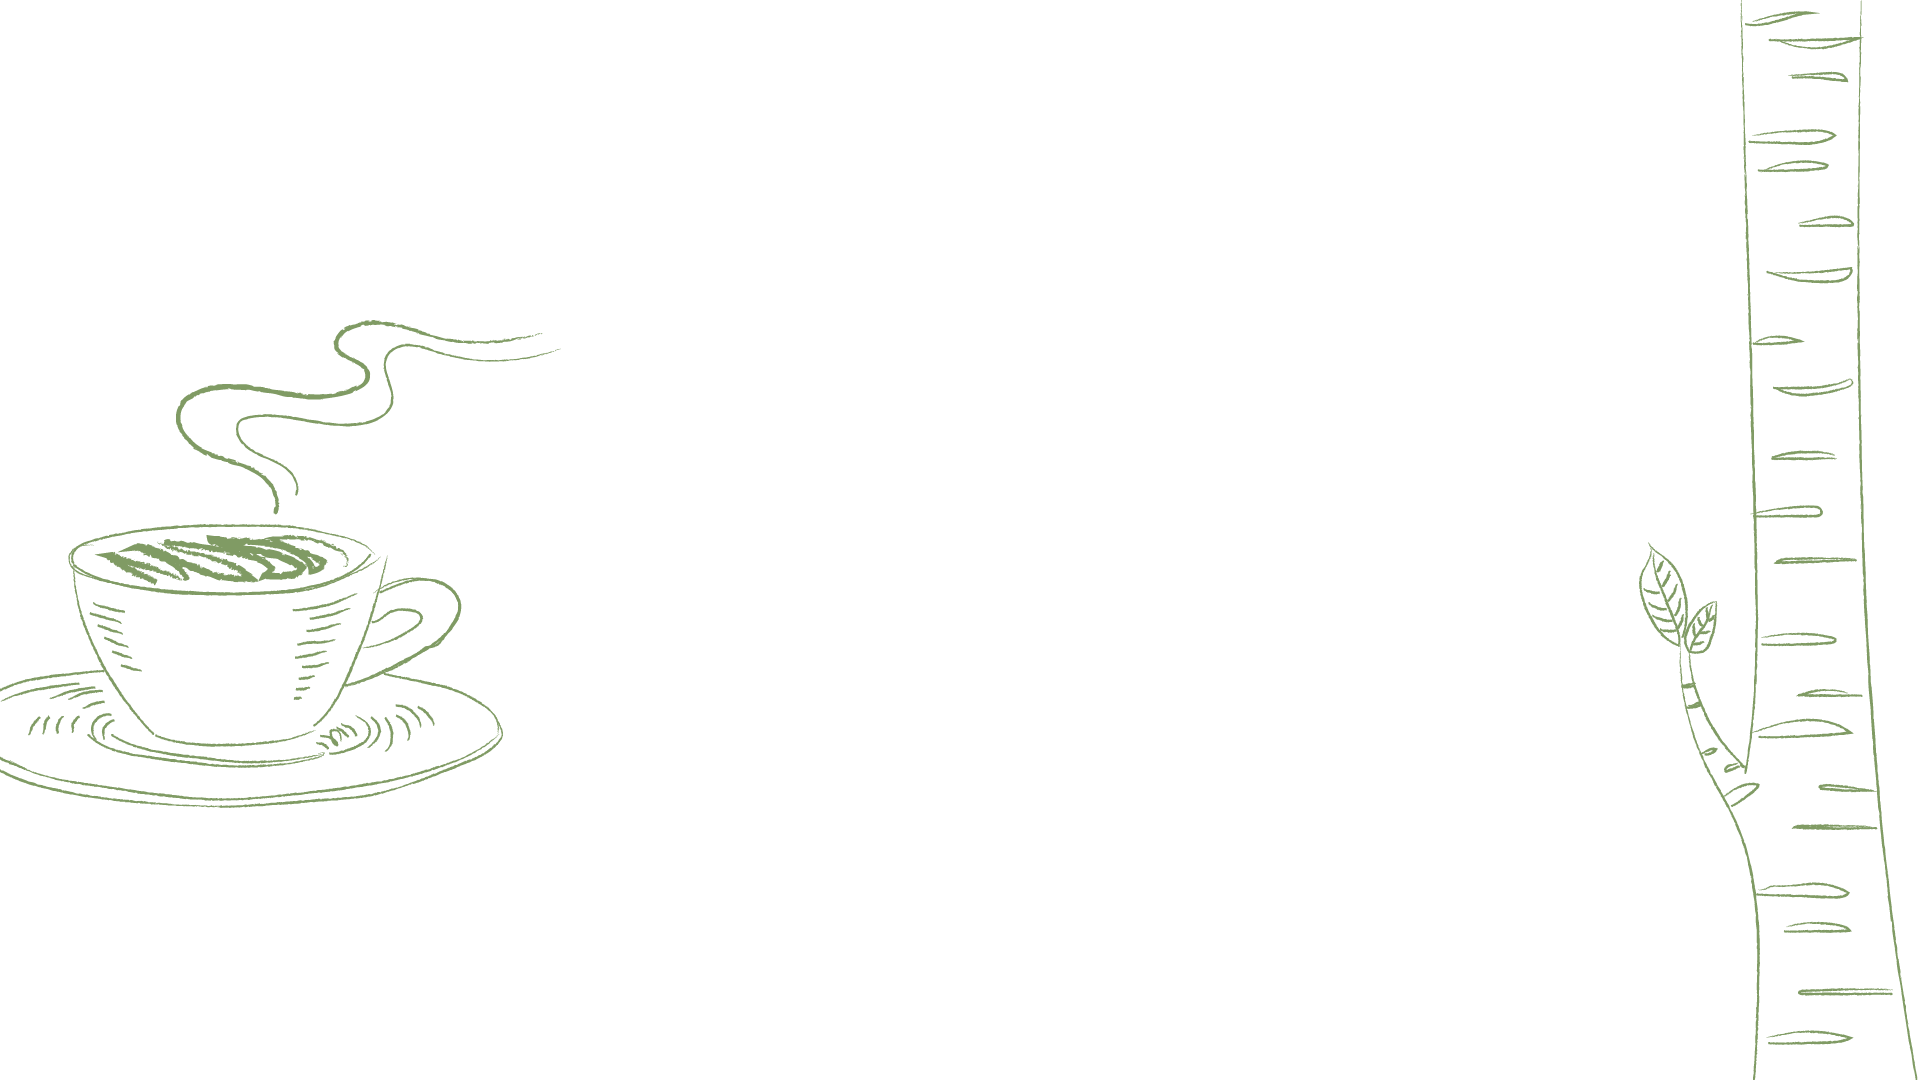
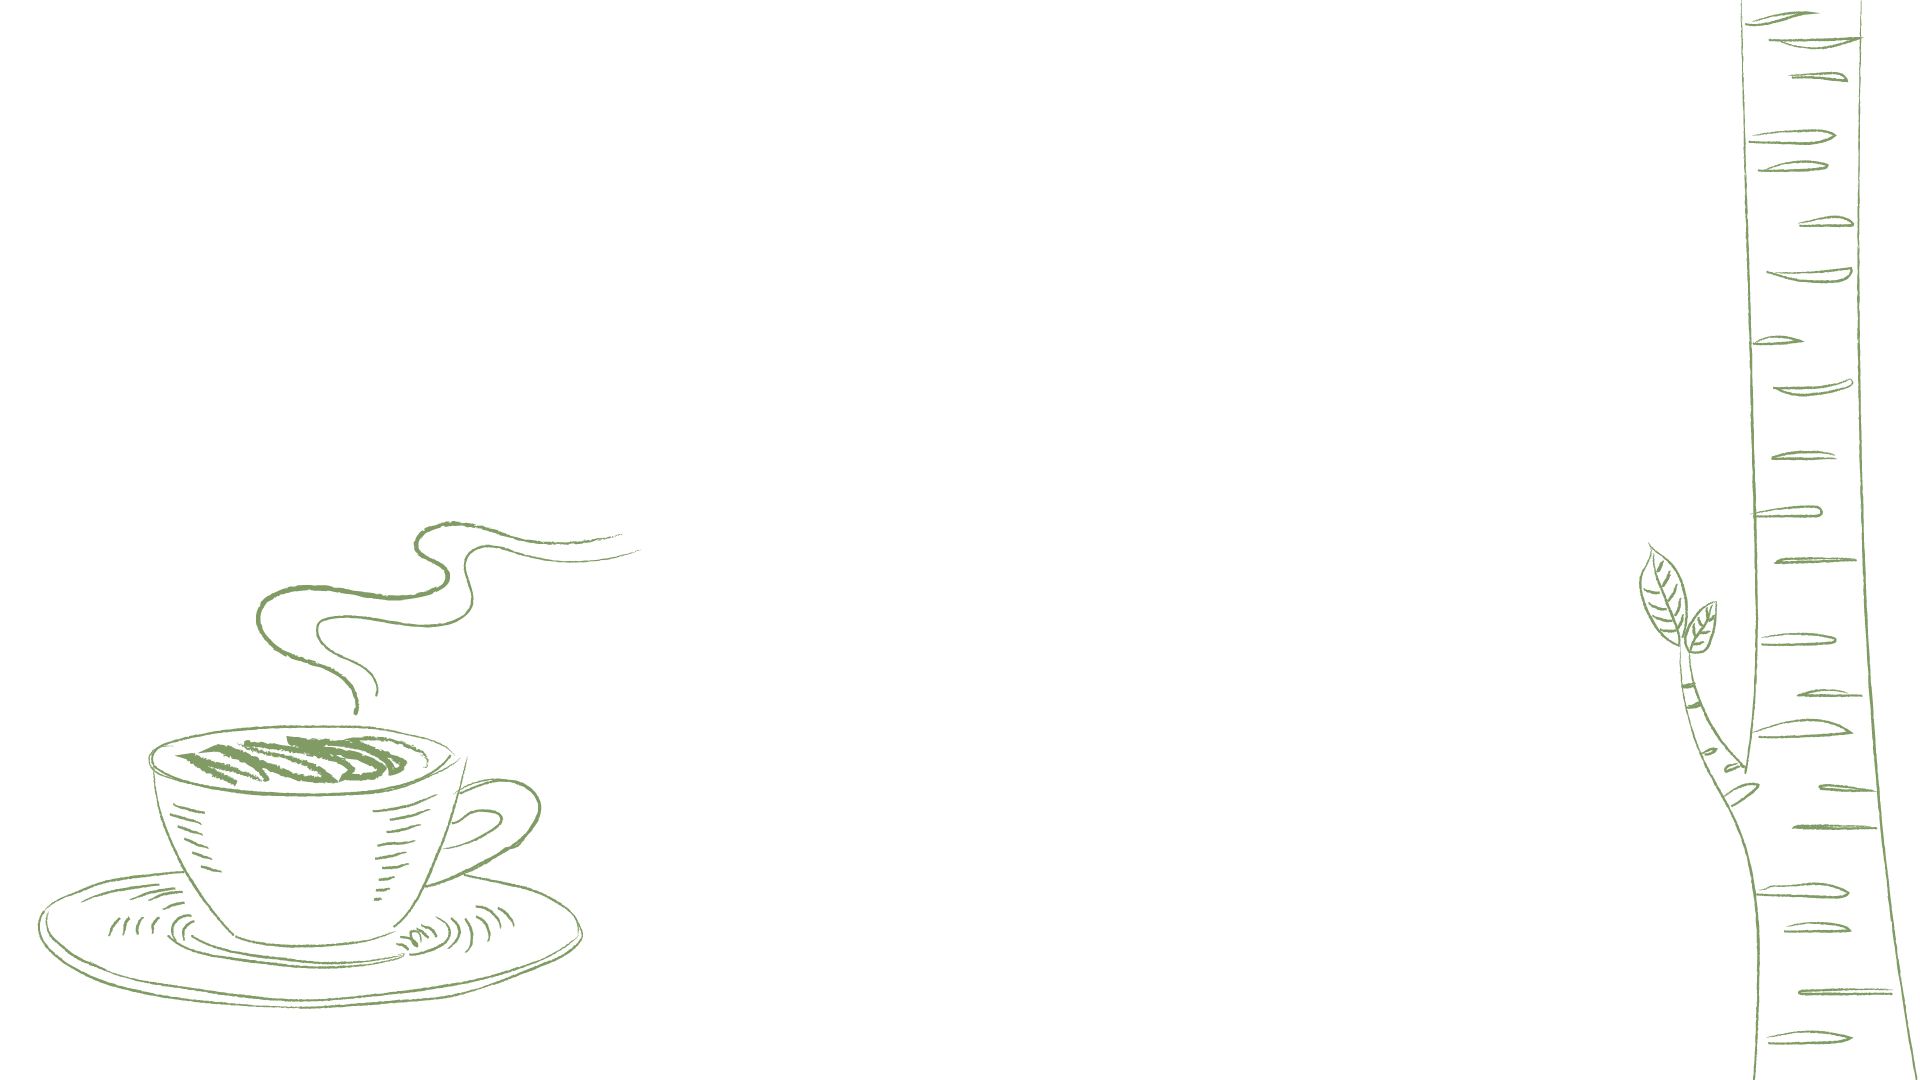
godmorgen

diff --git a/index.html b/index.html
@@ -25,19 +25,20 @@
       </nav>
     </header>
     <main>
-      <!-- <img src="img/forside_baggrund.png" alt="baggrund af tegnet birketræer" /> -->
-
       <div class="wrapper">
         <div class="container">
           <div class="h1"><h1>Velkommen til Café Kaf</h1></div>
-          <div class="p">
-            <p>Beliggende på hyggelige Birkegade 21 på Nørrebro, specialiserer vi os i udsøgte kager og friskbagt bagværk - med fokus på at alt er 100% plantebaseret.</p>
-            <p>Vi byder dig indenfor i vores stemningsfulde café, hvor du kan nyde både morgenmad og frokost. Der er altid frisklavet kaffe samt et udvalg af te og kolde drikkevarer, som du kan vælge imellem.</p>
-            <p>Uanset hvad du vælger, kan vi garantere, at du vil få en smagsoplevelse for livet!</p>
+          <div class="kaffe_billede">
+            <img src="img/tegnet_kaffekop.png" alt="tegnet_kaffekop" />
           </div>
           <div class="button_container">
             <a class="button-link">Se menukortet</a>
             <a class="button-link">Find os</a>
+          </div>
+          <div class="p">
+            <p>Beliggende på hyggelige Birkegade 21 på Nørrebro, specialiserer vi os i udsøgte kager og friskbagt bagværk - med fokus på at alt er 100% plantebaseret.</p>
+            <p>Vi byder dig indenfor i vores stemningsfulde café, hvor du kan nyde både morgenmad og frokost. Der er altid frisklavet kaffe samt et udvalg af te og kolde drikkevarer, som du kan vælge imellem.</p>
+            <p>Uanset hvad du vælger, kan vi garantere, at du vil få en smagsoplevelse for livet!</p>
           </div>
         </div>
       </div>

diff --git a/styles/forside.css b/styles/forside.css
@@ -1,13 +1,7 @@
-body {
-  background-image: url(/img/forside_baggrund.png);
-  background-position: center;
-  background-size: cover;
-  background-attachment: fixed;
-}
 .container {
   display: grid;
   place-items: center;
-  margin-top: 5px;
+  margin-top: 1rem;
 }
 
 .h1,
@@ -16,7 +10,7 @@ body {
 }
 
 .h1 {
-  margin-top: 4rem;
+  margin-top: 1rem;
   text-transform: uppercase;
   top: 40px;
 }
@@ -27,17 +21,6 @@ body {
   font-family: "broedtekst";
   top: 200px;
 }
-.button_container {
-  display: flex;
-  margin: 3rem;
-  gap: 3rem;
-  margin-bottom: 2rem;
-}
-
-.button_container > * {
-  font-size: 1.5rem;
-}
-
 .button-links {
   display: flex;
   gap: clamp(3rem, 1.2353rem + 3.1373vw, 5rem);
@@ -63,4 +46,36 @@ body {
 .button-link:hover::after {
   transform: scaleX(1);
   transform-origin: left;
+}
+
+@media (max-width: 400px) {
+  .kaffe_billede {
+    display: block;
+  }
+  .button_container > * {
+    font-size: 0.5rem;
+  }
+  .container {
+    margin-bottom: 5rem;
+  }
+}
+
+@media (min-width: 600px) {
+  body {
+    background-image: url(/img/forside_baggrund.png);
+    background-position: center;
+    background-size: cover;
+    background-attachment: fixed;
+  }
+  .kaffe_billede {
+    display: none;
+  }
+  .button_container > * {
+    font-size: 1.5rem;
+  }
+}
+.button_container {
+  display: flex;
+  gap: 2rem;
+  /* margin-bottom: 2rem; */
 }
